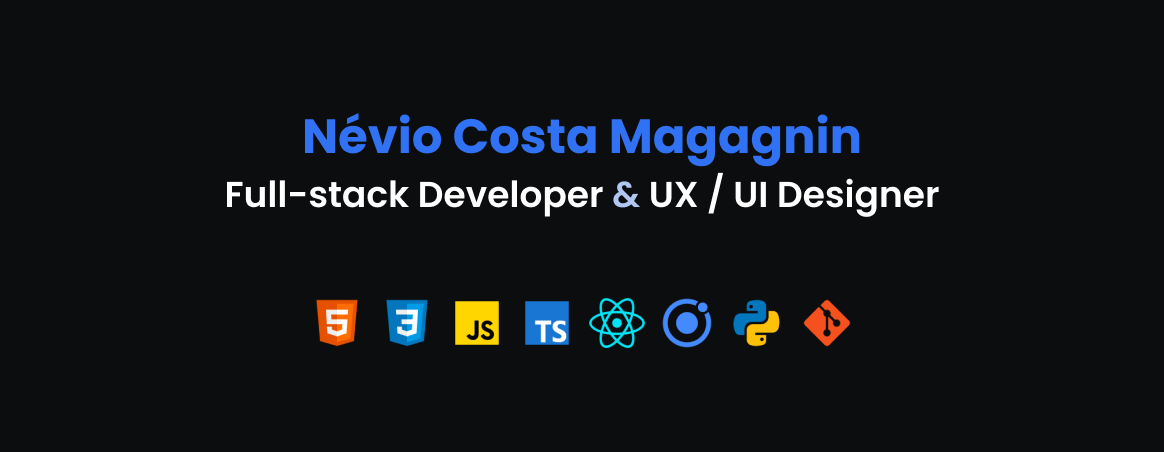
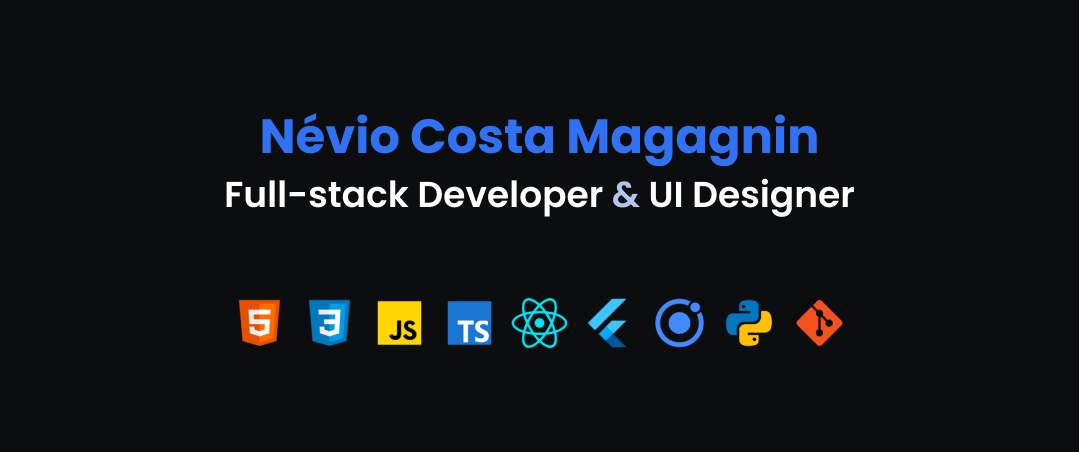
refactor: changing overview

Changed region(s): [[0.1835, 0.2478, 0.8258, 0.4956], [0.2141, 0.6504, 0.7952, 0.7743]]

diff --git a/README.md b/README.md
@@ -2,9 +2,9 @@
 
 ### Hello world :earth_americas:
 
-My name is Névio Costa Magagnin, a front-end developer with some full-stack skills and UI designer. I love working with software development since I started studying in 2018 in a technical course.
+My name is Névio Costa Magagnin, a full-stack developer with expertise in front-end and mobile development, and also with UI designer. I love working with software development since I started studying in 2018 in a technical course.
 
-I am always trying my best to improve my skills. For that, I have been working in personal projects, company projects and freelancers. For the future I want to become a great Software Engineer and have my own company.
+I am always trying my best to improve my skills. For that, I have been working in personal projects, company projects and freelancers. For the future I want to become a great Software Engineer.
 
 I am very skillful for web and mobile development, here are some of my bests skills:
 - React
@@ -13,8 +13,7 @@ I am very skillful for web and mobile development, here are some of my bests ski
 - JavaScript
 - TypeScript
 - Python
-
-Visit my video chat application by [clicking here.](https://meet-compass.herokuapp.com/home) The **Meet Compass** is my first project with Next.js and WebRTC technology. Such a good project to improve a skill set!
+- Flutter
 
 You can also follow me in my social networks.
 
